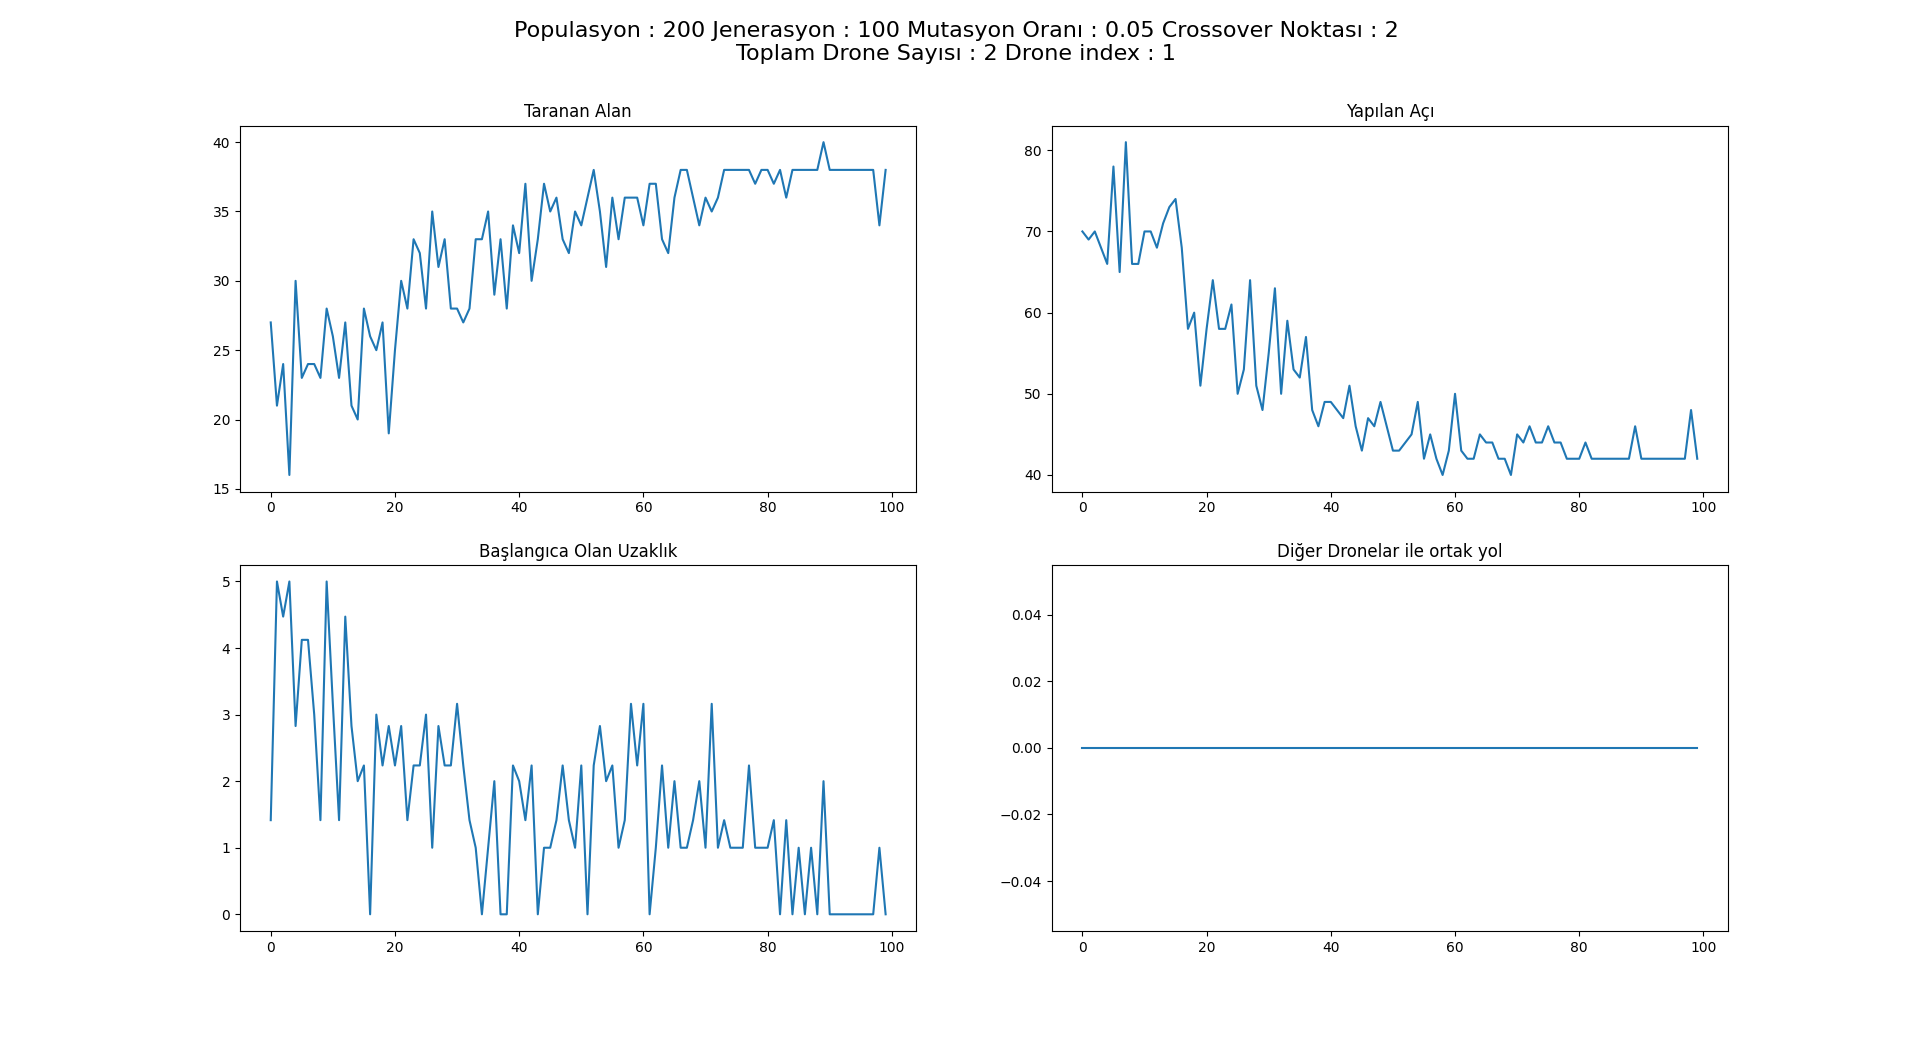
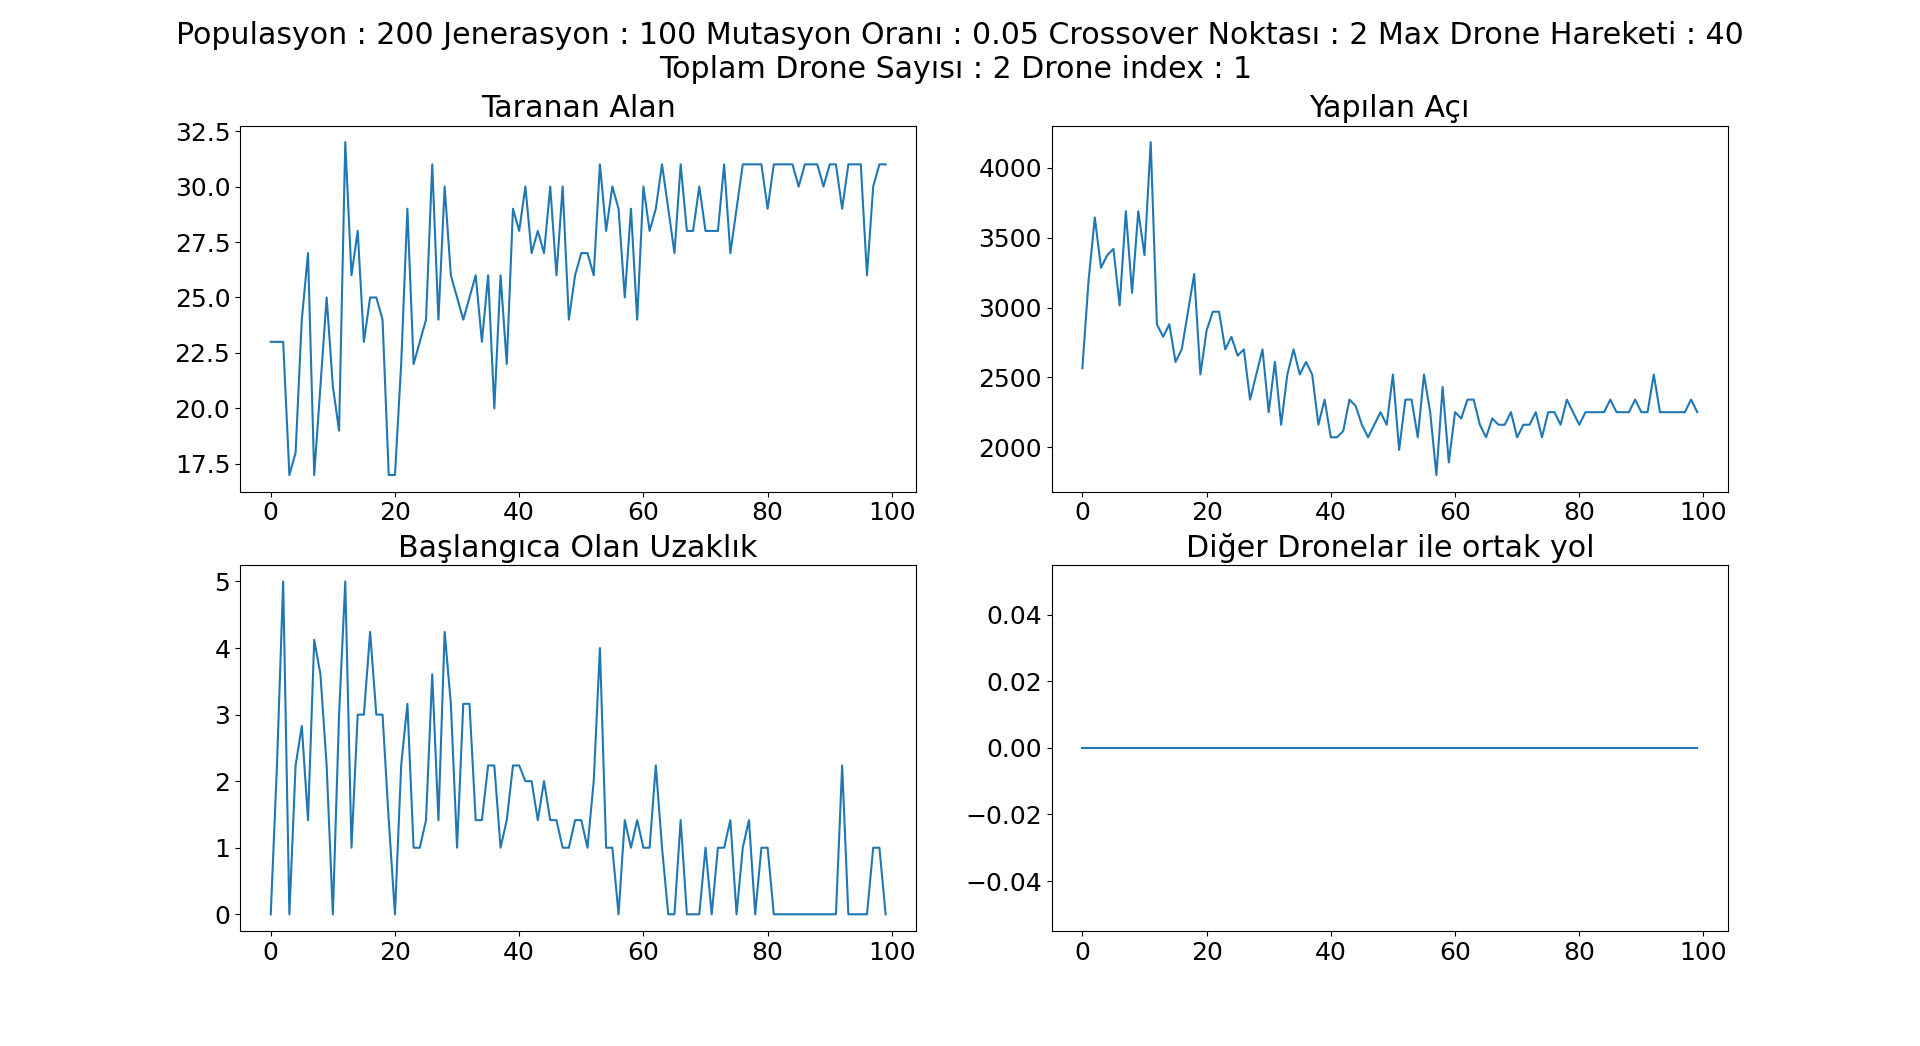
plot titles added.

diff --git a/main.py b/main.py
@@ -9,7 +9,7 @@ FIELD_SIZE = 9
 POPULATION_SIZE = 200
 SUCCESS_GENS = int(POPULATION_SIZE - POPULATION_SIZE / 5)
 INITIAL_START = (4, 4)
-MUTATE_PROB = 0.05
+MUTATE_PROB = 0.01
 CROSS_OVER_POINT = 2
 VERBOSE = 10
 GENERATION = 100
@@ -17,6 +17,7 @@ DRONE_COUNT = 2
 STEP_COUNT = int((FIELD_SIZE**2 - 1) / DRONE_COUNT)
 
 colors = ['blue', 'green', 'lime', 'cyan']
+plt.rcParams.update({'font.size': 18})
 
 # 2 1 8
 # 3 0 7
@@ -76,7 +77,8 @@ def print_all_statistics(best_individuals, initial_start, drones, drone_index):
     fig = plt.figure()
     fig.suptitle(f'Populasyon : {POPULATION_SIZE} Jenerasyon : {GENERATION} '
                  f'Mutasyon Oranı : {MUTATE_PROB} Crossover Noktası : {CROSS_OVER_POINT} '
-                 f'\nToplam Drone Sayısı : {DRONE_COUNT} Drone index : {drone_index + 1} ', fontsize=16)
+                 f'\nMax Drone Hareketi : {STEP_COUNT} Başlangıç Noktası : {INITIAL_START}'
+                 f' Toplam Drone Sayısı : {DRONE_COUNT} Drone index : {drone_index + 1} ')
     ax1 = fig.add_subplot(221)
     ax2 = fig.add_subplot(222)
     ax3 = fig.add_subplot(223)
@@ -90,7 +92,7 @@ def print_all_statistics(best_individuals, initial_start, drones, drone_index):
     #ax4.title.set_text('Prob')
 
     ax1.plot(areas)
-    ax2.plot(angles)
+    ax2.plot(angles * 45)
     ax3.plot(correct_finish)
     ax4.plot(path_difference)
 
@@ -121,6 +123,7 @@ def print_all_statistics(best_individuals, initial_start, drones, drone_index):
     fig = plt.figure()
     ax1 = fig.add_subplot(111)
     ax1.plot(probabilities)
+    ax1.title.set_text('Jenerasyonların İyilikleri')
     plt.savefig(f'plot/p{POPULATION_SIZE}_g{GENERATION}_m{MUTATE_PROB}_d{DRONE_COUNT}_{drone_index + 1}_prob.png')
     plt.close(fig)
     print('saved')
@@ -164,9 +167,11 @@ def calculate_scanned_area_of_all_drones(drones, initial_start):
 
     x, y = initial_start
     plt.plot(y, x, 'ro', color='black')
-
+    plt.title(f'Taranan Toplam Alan : {mask.sum()}')
     plt.gca().invert_yaxis()
-    plt.show()
+    plt.savefig(f'plot/p{POPULATION_SIZE}_g{GENERATION}_m{MUTATE_PROB}_d{DRONE_COUNT}_path.png')
+    plt.close()
+
 
 
 
@@ -268,7 +273,10 @@ def fitness_function(population, initial_start, iteration, drones, drone_index):
     probabilities /= max(probabilities)
 
     probabilities = 1 - probabilities
-    probabilities /= max(probabilities)
+    if max(probabilities) != 0:
+        probabilities /= max(probabilities)
+    else:
+        probabilities += 1
 
     if iteration % VERBOSE == 0:
         print(f'Best gene\nunscanned area :\n {areas[np.argmax(probabilities)].T * STEP_COUNT}\n'
